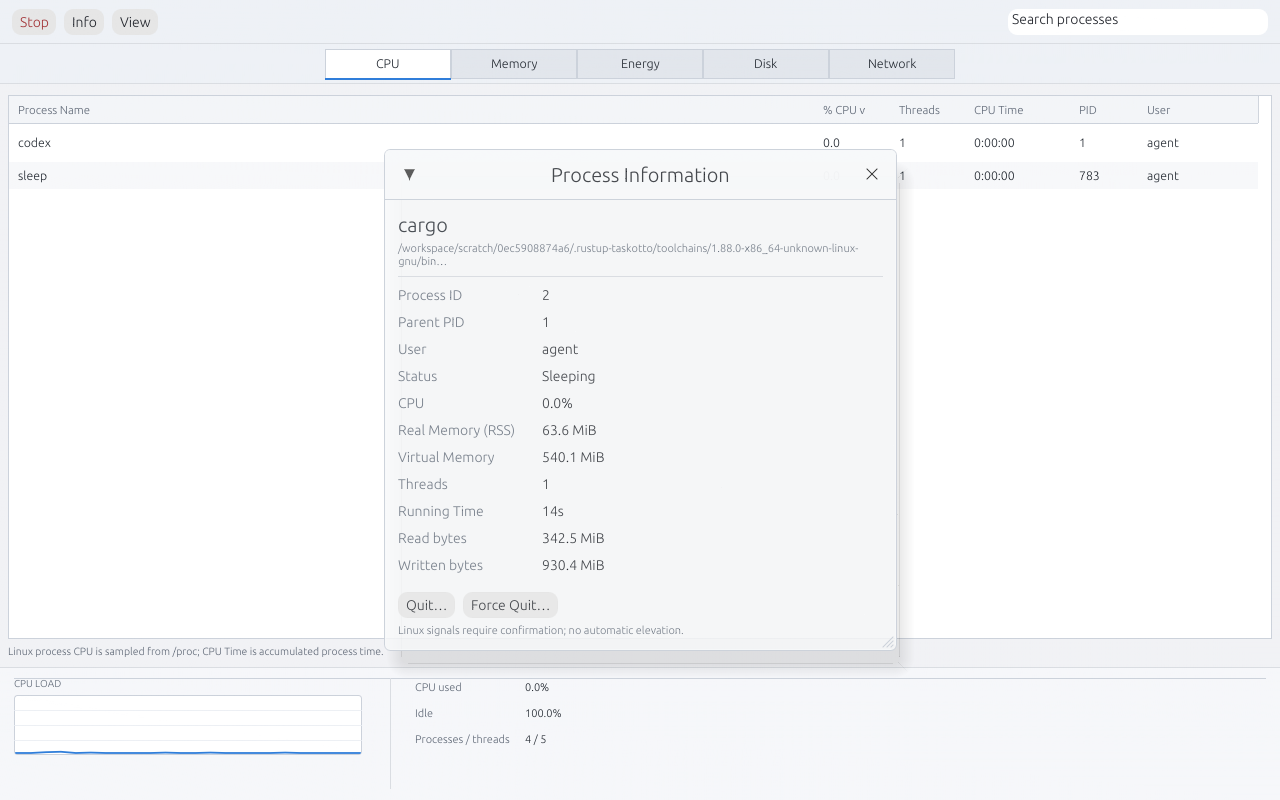
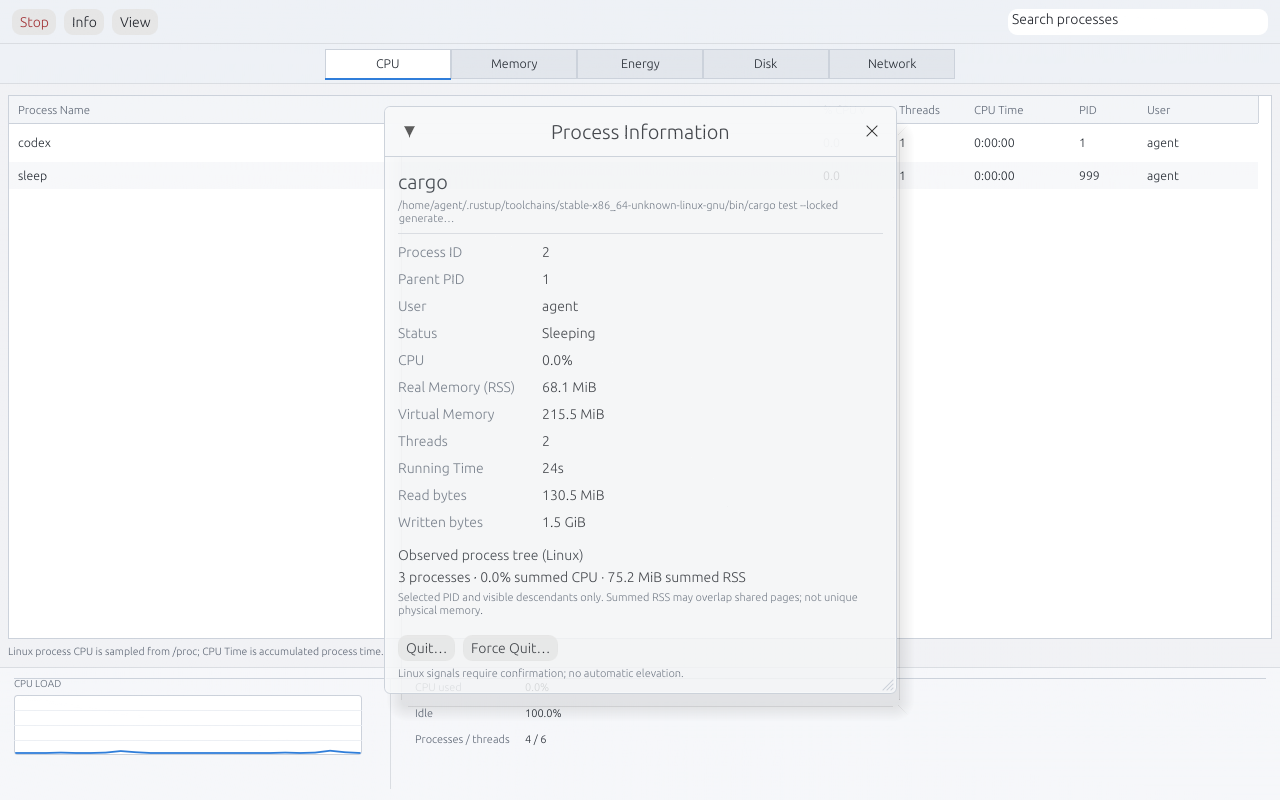
feat: surface observed process tree metrics (rc34) (#41)

diff --git a/src/monitor.rs b/src/monitor.rs
@@ -1,7 +1,7 @@
 //! Unprivileged, on-demand Linux /proc sampler. No daemon and no shell commands.
 use serde::Serialize;
 use std::{
-    collections::HashMap,
+    collections::{HashMap, HashSet},
     fs, io,
     path::Path,
     time::{Duration, Instant},
@@ -65,6 +65,60 @@ pub struct Snapshot {
     pub uptime_seconds: f64,
     pub processes: Vec<Process>,
     pub logical_cpus: usize,
+}
+
+/// Process-inclusive descendant totals from one observed /proc sample.
+/// Each PID contributes once even if malformed/cyclic ancestry is presented.
+/// RSS is **summed**, not unique physical memory: shared pages can overlap.
+#[derive(Clone, Copy, Debug, PartialEq)]
+pub struct TreeSummary {
+    pub process_count: usize,
+    pub cpu_percent: f64,
+    pub summed_rss_bytes: u64,
+}
+
+impl Snapshot {
+    pub fn tree_summary(&self, root_pid: i32, root_start_ticks: u64) -> Option<TreeSummary> {
+        let processes = self
+            .processes
+            .iter()
+            .map(|process| (process.pid, process))
+            .collect::<HashMap<_, _>>();
+        if processes.get(&root_pid)?.start_ticks != root_start_ticks {
+            return None;
+        }
+        let mut children: HashMap<i32, Vec<i32>> = HashMap::new();
+        for process in &self.processes {
+            if process.pid != process.parent_pid {
+                children
+                    .entry(process.parent_pid)
+                    .or_default()
+                    .push(process.pid);
+            }
+        }
+        let mut stack = vec![root_pid];
+        let mut visited = HashSet::new();
+        let mut cpu_percent = 0.0_f64;
+        let mut summed_rss_bytes = 0_u64;
+        while let Some(pid) = stack.pop() {
+            if !visited.insert(pid) {
+                continue;
+            }
+            let Some(process) = processes.get(&pid) else {
+                continue;
+            };
+            cpu_percent += f64::from(process.cpu_percent.max(0.0));
+            summed_rss_bytes = summed_rss_bytes.saturating_add(process.resident_bytes);
+            if let Some(offspring) = children.get(&pid) {
+                stack.extend(offspring.iter().copied());
+            }
+        }
+        Some(TreeSummary {
+            process_count: visited.len(),
+            cpu_percent,
+            summed_rss_bytes,
+        })
+    }
 }
 
 #[derive(Clone, Copy, Debug, Default)]
@@ -516,5 +570,43 @@ mod tests {
                 .iter()
                 .any(|p| p.pid == std::process::id() as i32)
         );
+    }
+
+    #[test]
+    fn descendant_totals_count_each_snapshot_pid_once_and_reject_stale_roots() {
+        let proc = |pid, parent_pid, start_ticks, cpu_percent, resident_bytes| Process {
+            pid,
+            parent_pid,
+            start_ticks,
+            cpu_percent,
+            resident_bytes,
+            ..Process::default()
+        };
+        let snapshot = Snapshot {
+            cpu_percent: 20.0,
+            cores_percent: vec![],
+            memory: Memory::default(),
+            rates: Rates::default(),
+            uptime_seconds: 1.0,
+            processes: vec![
+                proc(10, 2, 7, 12.0, 100),
+                proc(11, 10, 8, 2.0, 200),
+                proc(12, 10, 9, 3.0, u64::MAX),
+                proc(13, 11, 10, 1.0, 300),
+                proc(14, 99, 11, 80.0, 500),
+                proc(11, 10, 8, 2.0, 200),
+            ],
+            logical_cpus: 2,
+        };
+        let summary = snapshot.tree_summary(10, 7).unwrap();
+        assert_eq!(summary.process_count, 4);
+        assert_eq!(summary.cpu_percent, 18.0);
+        assert_eq!(summary.summed_rss_bytes, u64::MAX); // saturating
+        assert_eq!(snapshot.tree_summary(10, 6), None); // PID reuse
+        assert_eq!(snapshot.tree_summary(99, 1), None); // missing root
+        assert_eq!(snapshot.tree_summary(14, 11).unwrap().process_count, 1);
+        let mut cycle = snapshot;
+        cycle.processes[0].parent_pid = 13;
+        assert_eq!(cycle.tree_summary(10, 7).unwrap().process_count, 4);
     }
 }

diff --git a/src/ui/rices/details.rs b/src/ui/rices/details.rs
@@ -57,6 +57,23 @@ pub(super) fn xp_page(app: &mut TaskottoApp, ui: &mut egui::Ui) {
                 ("Running Time", format::process_age(p.elapsed_seconds)),
             ],
         );
+        if let Some(totals) = app.snapshot.as_ref().and_then(|snapshot| {
+            snapshot.tree_summary(p.pid, p.start_ticks)
+        }) {
+            ui.add_space(9.0);
+            classic_group(
+                ui,
+                seven,
+                paint,
+                "Observed process tree",
+                &[
+                    ("Processes incl. selected", totals.process_count.to_string()),
+                    ("Combined CPU", format!("{:.1}%", totals.cpu_percent)),
+                    ("Summed RSS", format::bytes(totals.summed_rss_bytes)),
+                ],
+            );
+            ui.label(RichText::new("Visible descendants only. Summed RSS may overlap shared memory; it is not unique physical usage.").small().weak());
+        }
         ui.add_space(9.0);
         classic_group(
             ui,

diff --git a/src/ui.rs b/src/ui.rs
@@ -1157,6 +1157,21 @@ impl TaskottoApp {
                     ui.end_row();
                 }
             });
+        if let Some(totals) = self
+            .snapshot
+            .as_ref()
+            .and_then(|snapshot| snapshot.tree_summary(process.pid, process.start_ticks))
+        {
+            ui.add_space(13.0);
+            ui.label(RichText::new("OBSERVED PROCESS TREE").strong());
+            ui.label(format!(
+                "{} observed processes · combined CPU {:.1}% · sum of RSS {}",
+                totals.process_count,
+                totals.cpu_percent,
+                format::bytes(totals.summed_rss_bytes),
+            ));
+            ui.label(RichText::new("Includes the selected PID and visible descendants only. RSS may count shared pages more than once; this is not unique physical memory.").small().weak());
+        }
         ui.add_space(18.0);
         ui.label(RichText::new("PROCESS ACTIONS").strong());
         ui.label(

diff --git a/src/ui/rices/macos.rs b/src/ui/rices/macos.rs
@@ -850,6 +850,14 @@ pub(super) fn info_dialog(app: &mut TaskottoApp, ctx: &egui::Context) {
                         ui.end_row();
                     }
                 });
+            if let Some(totals) = app.snapshot.as_ref().and_then(|snapshot| {
+                snapshot.tree_summary(process.pid, process.start_ticks)
+            }) {
+                ui.add_space(10.0);
+                ui.label(RichText::new("Observed process tree (Linux)").strong().color(ink));
+                ui.label(format!("{} processes · {:.1}% summed CPU · {} summed RSS", totals.process_count, totals.cpu_percent, format::bytes(totals.summed_rss_bytes)));
+                ui.label(RichText::new("Selected PID and visible descendants only. Summed RSS may overlap shared pages; not unique physical memory.").small().color(muted));
+            }
             ui.add_space(12.0);
             ui.horizontal(|ui| {
                 if ui

diff --git a/README.md b/README.md
@@ -6,11 +6,11 @@
 
 A customizable process manager and system monitor written in **Rust**. Runs alone or alongside [RiceBowl](https://github.com/CopyPasteUser/Ricebowl) on **X11 and Wayland**.
 
-![License](https://img.shields.io/badge/license-MIT-blue) ![Rust](https://img.shields.io/badge/language-Rust-orange) ![Status](https://img.shields.io/badge/status-1.0%20RC33-yellow)
+![License](https://img.shields.io/badge/license-MIT-blue) ![Rust](https://img.shields.io/badge/language-Rust-orange) ![Status](https://img.shields.io/badge/status-1.0%20RC34-yellow)
 
 </div>
 
-> **Status:** `1.0.0-rc.33` — seven dedicated interfaces: Frutiger Aero, ChromeOS, Windows 98, XP Luna, Windows 7, Windows 10 and macOS Activity Monitor, plus optional data-defined client screens. **All eight profiles leave the window frame, title and window buttons to RiceBowl/the active window manager**; Taskotto draws only its content, menus and functional toolbars. Native GUI and resource-use acceptance are still outstanding. See [1.0 roadmap](ROADMAP.md), [future development roadmap](EXPANSION_ROADMAP.md) and [QA checklist](QA.md). This is **not yet stable 1.0**.
+> **Status:** `1.0.0-rc.34` — seven dedicated interfaces: Frutiger Aero, ChromeOS, Windows 98, XP Luna, Windows 7, Windows 10 and macOS Activity Monitor, plus optional data-defined client screens. **All eight profiles leave the window frame, title and window buttons to RiceBowl/the active window manager**; Taskotto draws only its content, menus and functional toolbars. Native GUI and resource-use acceptance are still outstanding. See [1.0 roadmap](ROADMAP.md), [future development roadmap](EXPANSION_ROADMAP.md) and [QA checklist](QA.md). This is **not yet stable 1.0**.
 
 ## Screenshots
 
@@ -129,7 +129,7 @@ A customizable process manager and system monitor written in **Rust**. Runs alon
 
 ## What works
 
-- **Processes:** searchable live list, CPU/RAM/I/O/PID/name sort, tree, user filter, process start/runtime and per-process I/O rates.
+- **Processes:** searchable live list, CPU/RAM/I/O/PID/name sort, tree, user filter, process start/runtime and per-process I/O rates. Details/Properties/Info can summarize the selected process's observed descendant CPU and **summed RSS** (shared pages may overlap; not unique RAM).
 - **Safe actions:** terminate, force kill, pause and resume with confirmation and PID-reuse protection via Linux `pidfd`.
 - **Performance:** CPU/core load, RAM/swap, network RX/TX and disk read/write rates, bounded comparative rolling graphs.
 - **Riceable:** 8 profiles; Frutiger Aero (original luminous Y2K task manager), ChromeOS (compact task table), Windows 98 **Close Program**, XP Luna (5 tabs), Windows 7 (6 tabs), Windows 10 (7 tabs), and macOS Activity Monitor (5 views). Custom navigation, colors, fonts, density and persistent TOML preferences remain supported.

diff --git a/SCREENSHOTS.md b/SCREENSHOTS.md
@@ -74,7 +74,7 @@ The command samples real system activity and writes:
 - `assets/screenshots/taskotto-macos-energy.png` — per-process CPU activity as an **explicitly labeled proxy**, because macOS Energy Impact / App Nap are not available from portable Linux procfs.
 - `assets/screenshots/taskotto-macos-disk.png` — permission-sensitive real `/proc/PID/io` process bytes and aggregate block-device rates.
 - `assets/screenshots/taskotto-macos-network.png` — real non-loopback system-wide traffic history; no imaginary per-process counters.
-- `assets/screenshots/taskotto-macos-info.png` — modal process information from the currently selected actual PID.
+- `assets/screenshots/taskotto-macos-info.png` — modal process information from the currently selected actual PID, including an explicitly scoped observed Linux descendant summary with non-unique summed RSS.
 - `assets/screenshots/taskotto-macos-nightshift-ricepack.png` — real macOS-inspired process report with the included Nightshift RicePack v1, proving the custom drawn selection, controls, border and dark table token flow.
 
 ### Windows 7 (six historical tabs)
@@ -108,7 +108,7 @@ The command samples real system activity and writes:
 - `assets/screenshots/taskotto-xp-midnight-ricepack.png` — original Midnight RicePack with customizable XP-era tabs, borders, dark report and actual current Linux process selection.
 - `assets/screenshots/taskotto-xp-luna-performance.png` — CPU/memory history.
 - `assets/screenshots/taskotto-xp-luna-networking.png` — non-loopback receive/send trends.
-- `assets/screenshots/taskotto-xp-luna-details.png` — process properties using live Linux fields.
+- `assets/screenshots/taskotto-xp-luna-details.png` — process properties using live Linux fields and the observed descendant tree count/CPU/summed RSS (shared pages may overlap).
 
 The obsolete generic dark/Classic 98 gallery captures were removed in RC7;
 RC11 added four independently rendered Classic 98 views; RC12 adds two ChromeOS and four Frutiger Aero views.

diff --git a/CHANGELOG.md b/CHANGELOG.md
@@ -2,6 +2,12 @@
 
 Taskotto follows semantic versioning; hardware-dependent stable-release gates are explicit.
 
+## [1.0.0-rc.34] — 2026-11-07
+
+- Started P3 read-only process tree aggregation: for any selected process, a single live Linux snapshot now yields the number of **distinct observed PIDs** in the descendant tree, their summed per-process CPU percentages, and their summed resident RSS. The traversal guards cycles, duplicate PID entries, stale root start ticks and byte-count overflow.
+- Added the observed-tree summary to the standalone process Details view, XP Luna properties and macOS-style Info. All three explicitly explain that totals include only visible processes and **summed RSS may count shared memory more than once**, so it is not unique physical usage or proportional set size (PSS).
+- Added deterministic malformed-tree/PID-reuse tests and updated native acceptance checks. P3 process priority/affinity safety, PSS-aware shared-memory accounting, app/window grouping and follow/history remain open.
+
 ## [1.0.0-rc.33] — 2026-11-07
 
 - Fixed `Ctrl+F` in declarative TOML screens: generated toolbars now open and focus the actual process search; packs without any search toolbar get a keyboard-opened, dismissible fallback field. Closing a search also clears hidden filters instead of leaving an invisible query applied.

diff --git a/QA.md b/QA.md
@@ -55,6 +55,7 @@ archive and invokes its binary and local desktop installer before publishing.
 - [ ] Compare process CPU/RSS, host RAM, per-core CPU, uptime with `top`/`free`/`uptime`.
 - [ ] Compare network and disk rates during a known I/O operation.
 - [ ] Compare process start/runtime and read/write rates against `/proc/<PID>/stat` and `/proc/<PID>/io` for permitted processes.
+- [ ] Launch a parent process with multiple child/grandchild processes. Select its real PID and compare the Details/XP Properties/macOS Info observed-tree process count, CPU sum and **summed** RSS with one snapshot. Verify exiting children disappear on refresh, PID reuse cannot select a stale root, cycles/duplicate entries do not inflate counts, and the UI never claims shared RSS is unique physical memory or PSS.
 - [ ] Search by name, command, PID and user; sort CPU/RAM/I/O/PID/name and toggle tree mode.
 - [ ] Launch a disposable `sleep 1000` process; pause, resume and terminate it after confirmation.
 - [ ] Use the Force kill dialog only on a disposable test process; check warning text.

diff --git a/RELEASE_NOTES.md b/RELEASE_NOTES.md
@@ -1,8 +1,14 @@
-# Taskotto 1.0.0-rc.33 — release candidate
+# Taskotto 1.0.0-rc.34 — release candidate
 
 **Date:** 2026-11-07 · **Platform:** Linux x86_64 development/CI build; X11/Wayland GUI hardware acceptance pending.
 
 Rust-only Linux process manager and system monitor. This is a **prerelease**, not a stable 1.0 certification.
+
+## Changes since rc.33
+
+- Added observed Linux process-tree totals to generic Details, XP Properties and macOS Info: unique PID count, summed per-process CPU and summed RSS, using a single snapshot, safe start-tick matching and cycle guards.
+- The UI explains the exact scope: only observed descendants; RSS is not unique physical memory and can overlap because of shared pages. This is the first read-only P3 step, not completion of P3's future PSS-aware accounting or privilege-sensitive actions.
+- Added duplicate/cycle/stale PID and overflow tests; refreshed historical Details/Info captures and roadmap/QA documentation.
 
 ## Changes since rc.32
 

diff --git a/EXPANSION_ROADMAP.md b/EXPANSION_ROADMAP.md
@@ -121,6 +121,11 @@ with **no new Rust UI module**. No untrusted scripts or arbitrary shell hooks.
   permit, with clear errors and explicit consent for mutations.
 - [ ] Aggregate descendant-tree CPU and memory statistics without double
   counting; show collection scope accurately.
+  - [x] RC34: count each observed descendant PID once, prevent cycles and PID
+    reuse at the selected root, sum actual per-process CPU/RSS with saturation
+    and label limited visibility and shared-RSS page overlap explicitly.
+  - [ ] Where available, add PSS-aware accounting or a verified unique-memory
+    measure; never present summed RSS as unique machine memory.
 - [ ] Optional compositor-specific app/window grouping with real identifiers,
   fallback to process lists when window information is unavailable.
 - [ ] Session history, process-follow and sort-freeze controls.

diff --git a/RICE_FIDELITY.md b/RICE_FIDELITY.md
@@ -58,6 +58,9 @@ and fonts are **not** copied or bundled.
 - Dedicated light, neutral Activity Monitor-inspired UI rather than the generic
   Taskotto theme: an original activity-wave mark, compact toolbar with **Stop**,
   **Info**, functional **View** menu and a persistent **Search processes** field.
+- The Linux process Info inspector may additionally show an explicitly
+  labeled *observed descendant tree* summary. Summed RSS can overlap shared
+  pages and is not a claim about macOS private/unique memory accounting.
 - Five familiar segments in their original order: **CPU, Memory, Energy, Disk,
   Network**, displayed as horizontal tabs by default. Explicitly choosing a
   sidebar is a Taskotto customization, not a claim about Apple's default.

diff --git a/DESIGN.md b/DESIGN.md
@@ -130,6 +130,9 @@ uses the existing non-overwriting v1 RicePack writer.
 Generated process screens preserve `Ctrl+F` keyboard focus even when a safe
 custom toolbar was omitted. Pack compatibility is diagnosed explicitly via
 its versioned schema; incompatible variants are never silently converted.
+The process inspector can display observed descendant PID totals from a
+single snapshot, but labels summed RSS and its shared-page overlap rather
+than claiming deduplicated physical RAM or full-system process visibility.
 
 The interface is live and honest: charts use measured bounded history;
 labels distinguish system-wide traffic from per-process information. Motion
